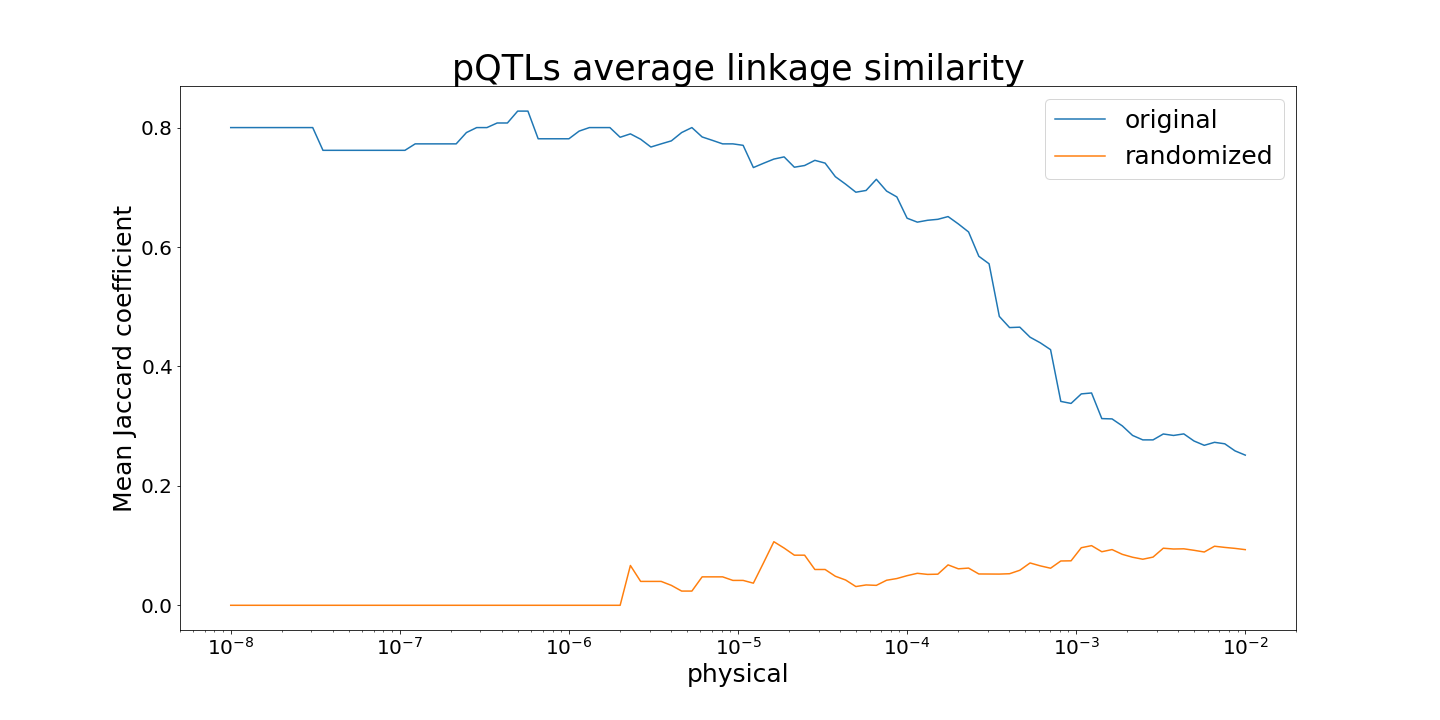
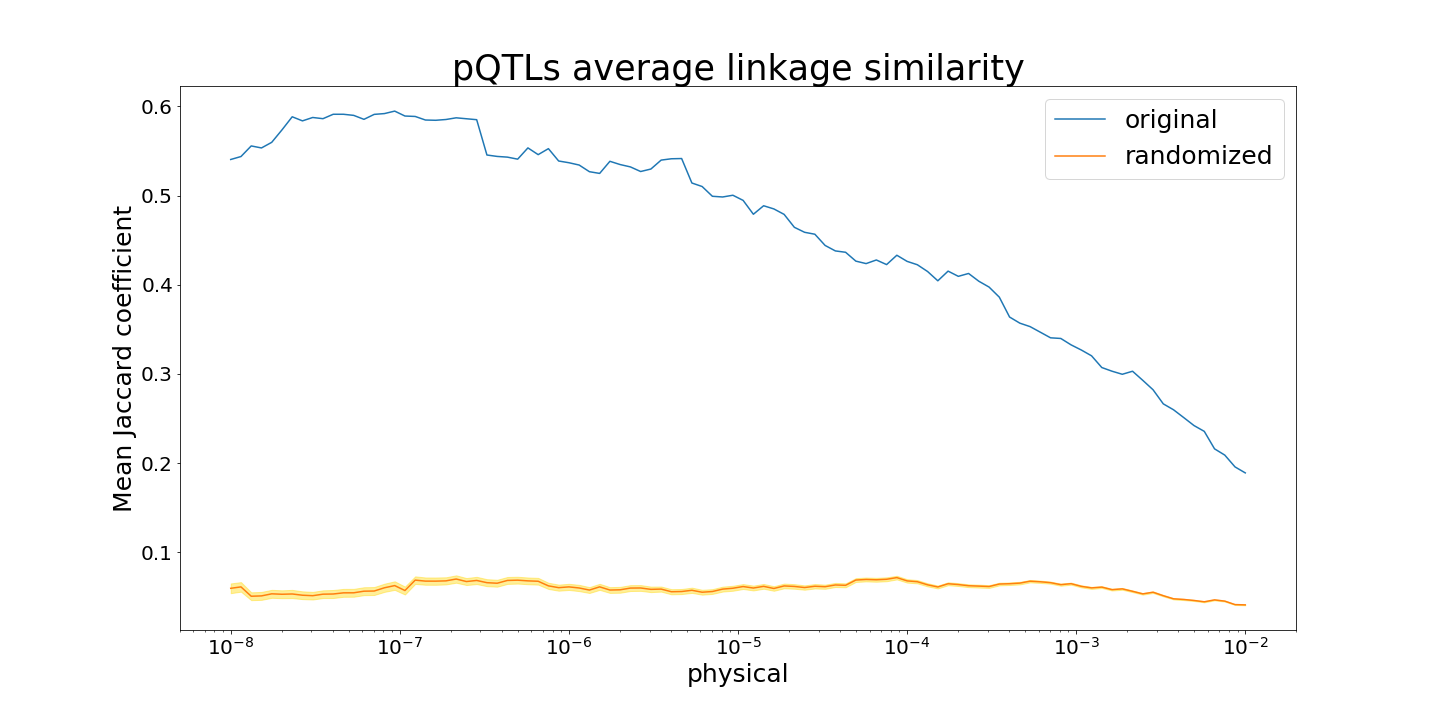
Added confidence intervals to the plots Started implementing ModuleAnalyzer class

diff --git a/lib/qtls.py b/lib/qtls.py
@@ -1,7 +1,14 @@
+from __future__ import print_function
+
+import sys
+
 import numpy as np
 
-import networks
+from .networks import assemble_graph_of_interactions
 
+
+def eprint(*args, **kwargs):
+    print(*args, file=sys.stderr, **kwargs)
 
 # Returns a list of genes connected to gene_name in interactions_graph
 # where "connected" is interpreted as "reachable in bfs_depth steps".
@@ -25,12 +32,12 @@ def convert_to_sys(gene_name, std_to_sys):
 # full strain genotype lookup table, plot the number
 # of linkages against marker location in genome
 def map_linkages_to_genome_location(QTL_df, full_genotypes_df):
-    QTL_graph = networks.assemble_graph_of_interactions(
+    QTL_graph = assemble_graph_of_interactions(
         edges=QTL_df[["SNP", "gene"]].values,
         directed=True
     )
     # Select only the marker vertices
-    left_part = QTL_graph.vs.select(type=False)
+    left_part = QTL_graph.vs.select(part=False)
     # And map them to their absolute genome location
     marker_to_rownum = \
         dict(
